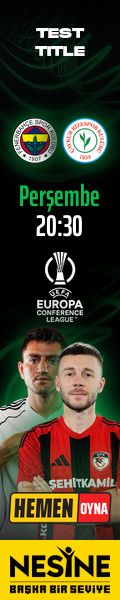
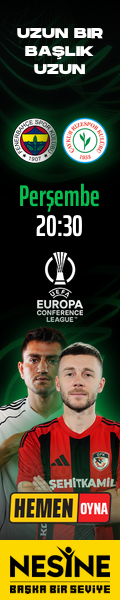
UEFA layout refinements: dynamic title wrapping, vertical spacing fix, font consistency and cache-busting

Changed region(s): [[0.175, 0.03, 0.85, 0.15], [0.125, 0.03, 0.175, 0.06]]

diff --git a/frontend/index.html b/frontend/index.html
@@ -533,7 +533,7 @@
                 const realFilename = urlObj.pathname.split('/').pop();
                 targetImg.setAttribute('data-filename', realFilename);
                 
-                targetImg.src = data.imageUrl;
+                targetImg.src = data.imageUrl + '?t=' + new Date().getTime();
                 targetImg.classList.remove('hidden');
                 targetEmpty.classList.add('hidden');
                 

diff --git a/server/server.js b/server/server.js
@@ -18,6 +18,9 @@ app.use(express.json());
 // Serve Static Frontend Files
 app.use(express.static(path.join(__dirname, '..', 'frontend')));
 
+// Serve Output Files from Backend Output Directory
+app.use('/output', express.static(path.join(__dirname, '..', 'backend', 'output')));
+
 const storage = multer.memoryStorage();
 const upload = multer({
     storage: storage,

diff --git a/backend/core/layouts/uefa/uefa_1200.py b/backend/core/layouts/uefa/uefa_1200.py
@@ -51,22 +51,24 @@ class UEFA1200(BaseLayout):
                 self.draw_mask_glow(canvas, l_img, l["center"], color=(6, 191, 80, 220), dilation=35, blur=65)
                 canvas.alpha_composite(l_img, (l["center"][0] - l_img.width // 2, l["center"][1] - l_img.height // 2))
 
-        # 5. Yazılar (Title overlap fix)
+        # 5. Yazılar (Dynamic Title & Space Refinement)
         try:
             title = data.get('match_title', '').upper()
-            if title:
-                font_title = ImageFont.truetype(f_title, 55)
-                draw.text(((width - draw.textlength(title, font=font_title)) // 2, 30), title, font=font_title, fill="white")
+            f_saira_cond = "/Users/ayseguler/Documents/vs_projeler/Karbonat/kick-grok/fonts/uefa/Saira_UltraCondensed-Bold.ttf"
             
-            # Day & Hour (PSD: Saira Condensed Bold, 87.48px)
+            if title:
+                # Dinamik başlık çizimi (Otomatik sığdırma ve satır bölme)
+                self.draw_dynamic_title(draw, title, f_saira_cond, max_width=1000, start_y=30)
+            
+            # Day & Hour (Shifted Up: Old Y was 160/235)
             day_text = data.get('day', 'Pazartesi').capitalize()
             hour_text = data.get('hour', '20:30')
             
-            f_saira_cond = "/Users/ayseguler/Documents/vs_projeler/Karbonat/kick-grok/fonts/uefa/Saira_UltraCondensed-Bold.ttf"
             font_info = ImageFont.truetype(f_saira_cond, 88)
             
-            draw.text(((width - draw.textlength(day_text, font=font_info)) // 2, 160), day_text, font=font_info, fill="#06BF50")
-            draw.text(((width - draw.textlength(hour_text, font=font_info)) // 2, 235), hour_text, font=font_info, fill="white")
+            # Yeni Pozisyonlar: UEFA Logosuyla çakışmaması için yukarı alındı
+            draw.text(((width - draw.textlength(day_text, font=font_info)) // 2, 130), day_text, font=font_info, fill="#06BF50")
+            draw.text(((width - draw.textlength(hour_text, font=font_info)) // 2, 205), hour_text, font=font_info, fill="white")
         except Exception as e:
             print(f"Typo Error: {e}")
 
@@ -123,6 +125,62 @@ class UEFA1200(BaseLayout):
         render_x = center_x - (new_w // 2)
         render_y = target_y - new_bbox[1]
         canvas.alpha_composite(img, (int(render_x), int(render_y)))
+
+    def draw_dynamic_title(self, draw, text, font_path, max_width, start_y):
+        """Metni genişliğe göre böler, gerekirse küçültür ve ortalı şekilde çizer."""
+        base_size = 65
+        padding = 10
+        width = 1200
+        
+        # 1. Metni bölme (Kelimelere göre)
+        words = text.split()
+        lines = []
+        current_line = []
+        
+        font = ImageFont.truetype(font_path, base_size)
+        
+        for word in words:
+            test_line = " ".join(current_line + [word])
+            if draw.textlength(test_line, font=font) <= max_width:
+                current_line.append(word)
+            else:
+                if current_line:
+                    lines.append(" ".join(current_line))
+                    current_line = [word]
+                else:
+                    # Tek bir kelime bile sığmıyorsa (çok uzun kelime), zorla kes
+                    lines.append(word)
+                    current_line = []
+        
+        if current_line:
+            lines.append(" ".join(current_line))
+            
+        # 2. Eğer 2 satırdan fazlaysa veya sığmıyorsa fontu küçült
+        while (len(lines) > 2 or any(draw.textlength(line, font=font) > max_width for line in lines)) and base_size > 30:
+            base_size -= 5
+            font = ImageFont.truetype(font_path, base_size)
+            # Metni yeni boyutla tekrar böl (opsiyonel ama daha doğru)
+            lines = []
+            current_line = []
+            for word in words:
+                test_line = " ".join(current_line + [word])
+                if draw.textlength(test_line, font=font) <= max_width:
+                    current_line.append(word)
+                else:
+                    if current_line:
+                        lines.append(" ".join(current_line))
+                        current_line = [word]
+                    else:
+                        lines.append(word)
+                        current_line = []
+            if current_line: lines.append(" ".join(current_line))
+
+        # 3. Çizim
+        current_y = start_y
+        for line in lines[:2]: # Maksimum 2 satır
+            w_line = draw.textlength(line, font=font)
+            draw.text(((width - w_line) // 2, current_y), line, font=font, fill="white")
+            current_y += base_size + padding
 
     def draw_mask_glow(self, canvas, img, center, color, dilation=15, blur=30):
         """Logonun/Oyuncunun çevresini saran konfigüre edilebilir neon hale efekti."""

diff --git a/backend/core/layouts/uefa/uefa_320_100.py b/backend/core/layouts/uefa/uefa_320_100.py
@@ -39,22 +39,22 @@ class UEFA320_100(BaseLayout):
         self.draw_branding(canvas, show_hemen_oyna=False)
         
         # 1. Match Title (Centered, 2 Lines)
-        f_monument = "/Users/ayseguler/Documents/vs_projeler/Karbonat/kick-grok/fonts/ziraat/MonumentExtended-Ultrabold.otf"
+        f_saira = "/Users/ayseguler/Documents/vs_projeler/Karbonat/kick-grok/fonts/uefa/Saira_UltraCondensed-Bold.ttf"
         title = data.get('match_title', '').upper()
         if title:
-            font_title = ImageFont.truetype(f_monument, 14)
+            # Saira fontu için daha büyük boyut (Max Visibility)
+            font_title = ImageFont.truetype(f_saira, 30)
             draw = ImageDraw.Draw(canvas)
             
-            # Simple 2-line split logic
+            # Kelimelere göre bölme
             words = title.split()
             mid = len(words) // 2
             line1 = " ".join(words[:mid])
             line2 = " ".join(words[mid:])
             
-            # Draw both lines centered
-            # Center of canvas is 160, 50
-            draw.text((w/2 + 20, h/2 - 12), line1, font=font_title, fill="white", anchor="mm", align="center")
-            draw.text((w/2 + 20, h/2 + 12), line2, font=font_title, fill="white", anchor="mm", align="center")
+            # Nesine logosunu dengelemek için hafif sağa offsetli (170) ama daha ortalı görünüm
+            draw.text((170, h/2 - 15), line1, font=font_title, fill="white", anchor="mm", align="center")
+            draw.text((170, h/2 + 15), line2, font=font_title, fill="white", anchor="mm", align="center")
             
         return canvas
 
